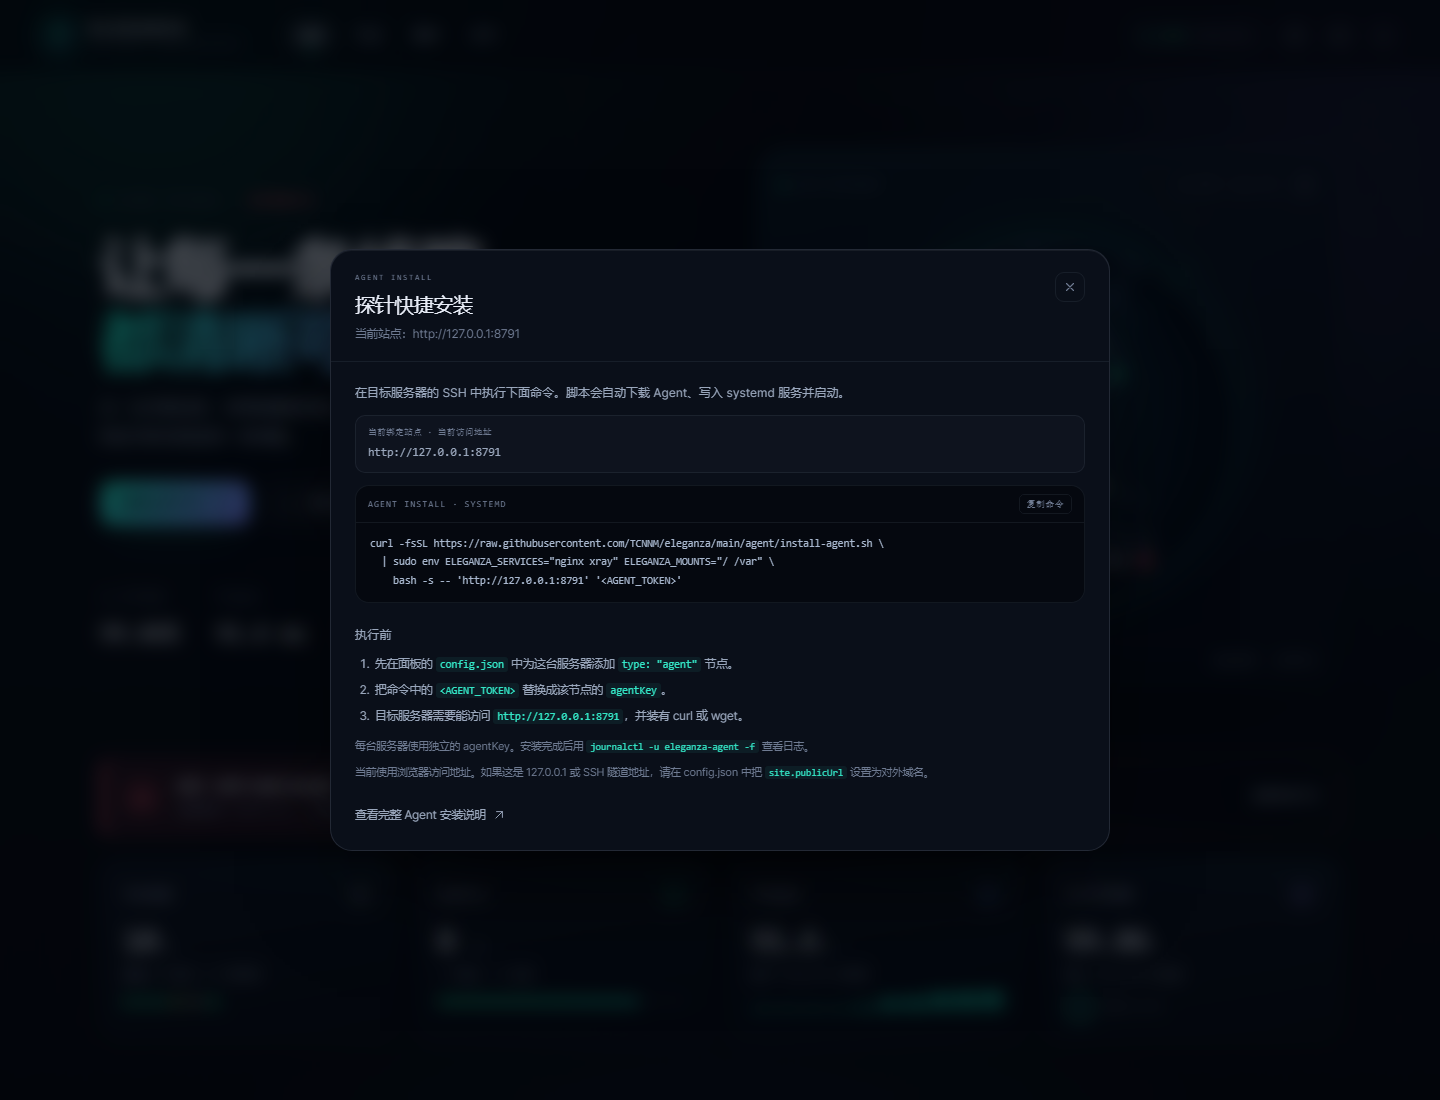
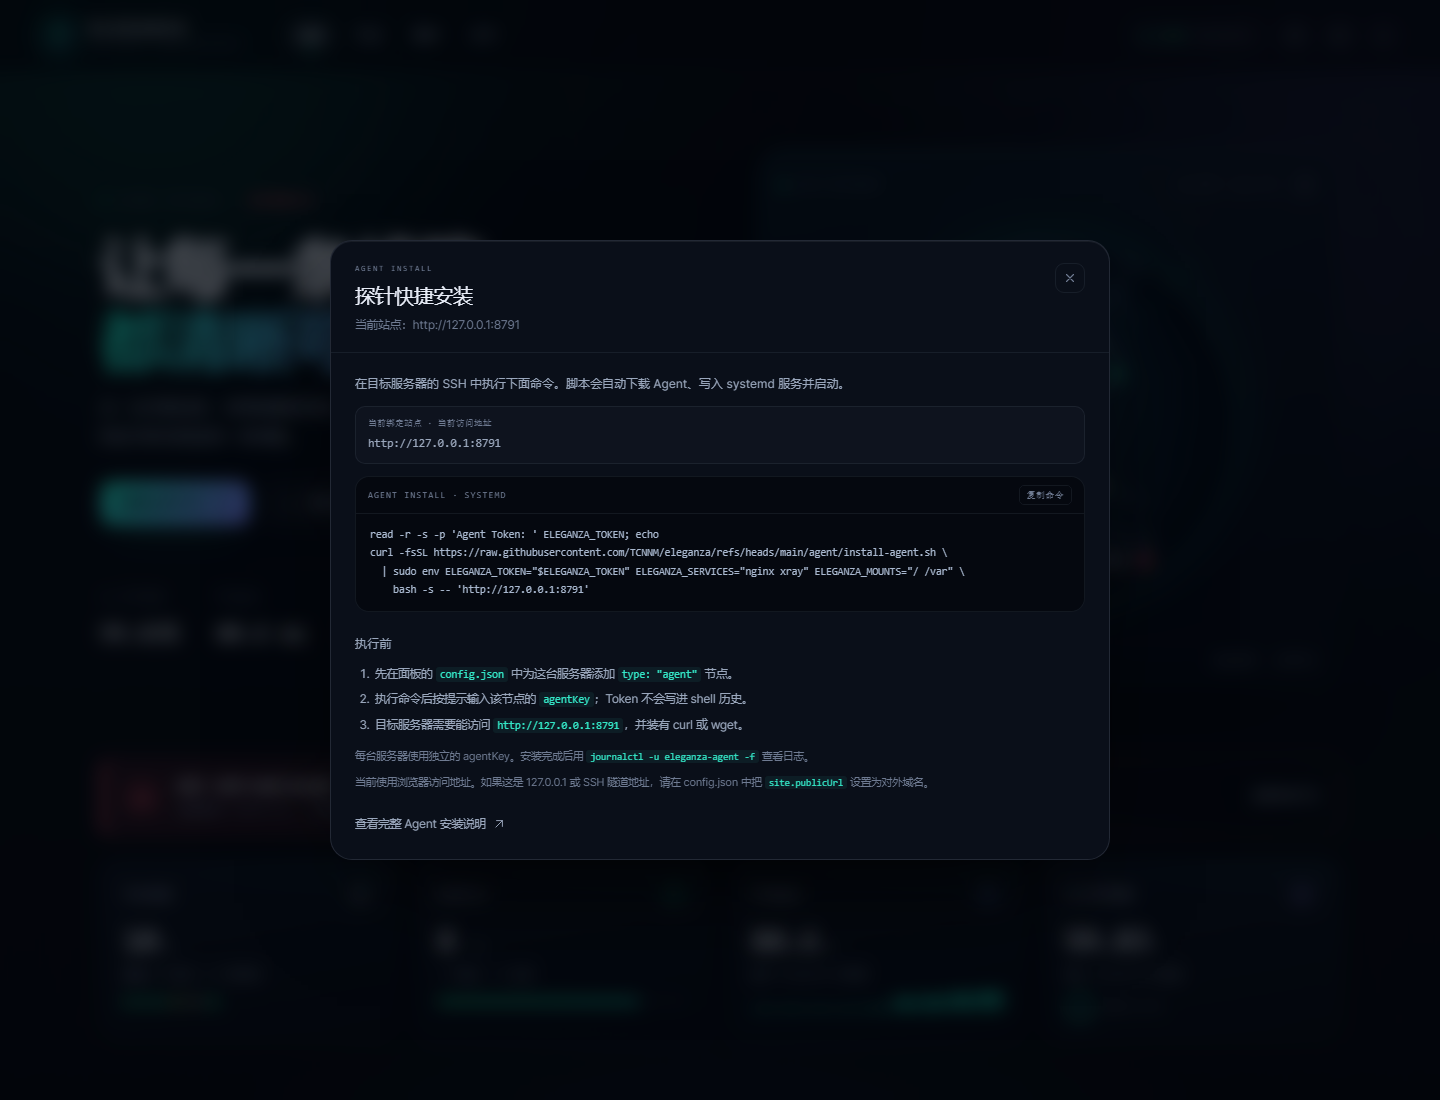
agent: prompt for token instead of angle-bracket placeholder

diff --git a/public/app.js b/public/app.js
@@ -1326,9 +1326,10 @@ function openProbeCommandDialog() {
   const tlsNote = internalTls
     ? '<p class="probe-footnote">当前是 IP + Caddy 内部证书，命令已自动加入 <code>ELEGANZA_INSECURE=1</code>；浏览器首次访问也会提示证书不受信任。</p>'
     : '';
-  const command = `curl -fsSL https://raw.githubusercontent.com/TCNNM/eleganza/refs/heads/main/agent/install-agent.sh \\
-  | sudo env ELEGANZA_SERVICES="nginx xray" ELEGANZA_MOUNTS="/ /var"${extraEnv} \\
-    bash -s -- '${base}' '<AGENT_TOKEN>'`;
+  const command = `read -r -s -p 'Agent Token: ' ELEGANZA_TOKEN; echo
+curl -fsSL https://raw.githubusercontent.com/TCNNM/eleganza/refs/heads/main/agent/install-agent.sh \\
+  | sudo env ELEGANZA_TOKEN="$ELEGANZA_TOKEN" ELEGANZA_SERVICES="nginx xray" ELEGANZA_MOUNTS="/ /var"${extraEnv} \\
+    bash -s -- '${base}'`;
 
   openDialog({
     kicker: 'AGENT INSTALL',
@@ -1353,7 +1354,7 @@ function openProbeCommandDialog() {
         <h3>执行前</h3>
         <ol class="probe-steps">
           <li>先在面板的 <code>config.json</code> 中为这台服务器添加 <code>type: "agent"</code> 节点。</li>
-          <li>把命令中的 <code>&lt;AGENT_TOKEN&gt;</code> 替换成该节点的 <code>agentKey</code>。</li>
+          <li>执行命令后按提示输入该节点的 <code>agentKey</code>；Token 不会写进 shell 历史。</li>
           <li>目标服务器需要能访问 <code>${escapeHtml(base)}</code>，并装有 curl 或 wget。</li>
         </ol>
         <p class="probe-footnote">每台服务器使用独立的 agentKey。安装完成后用 <code>journalctl -u eleganza-agent -f</code> 查看日志。</p>
